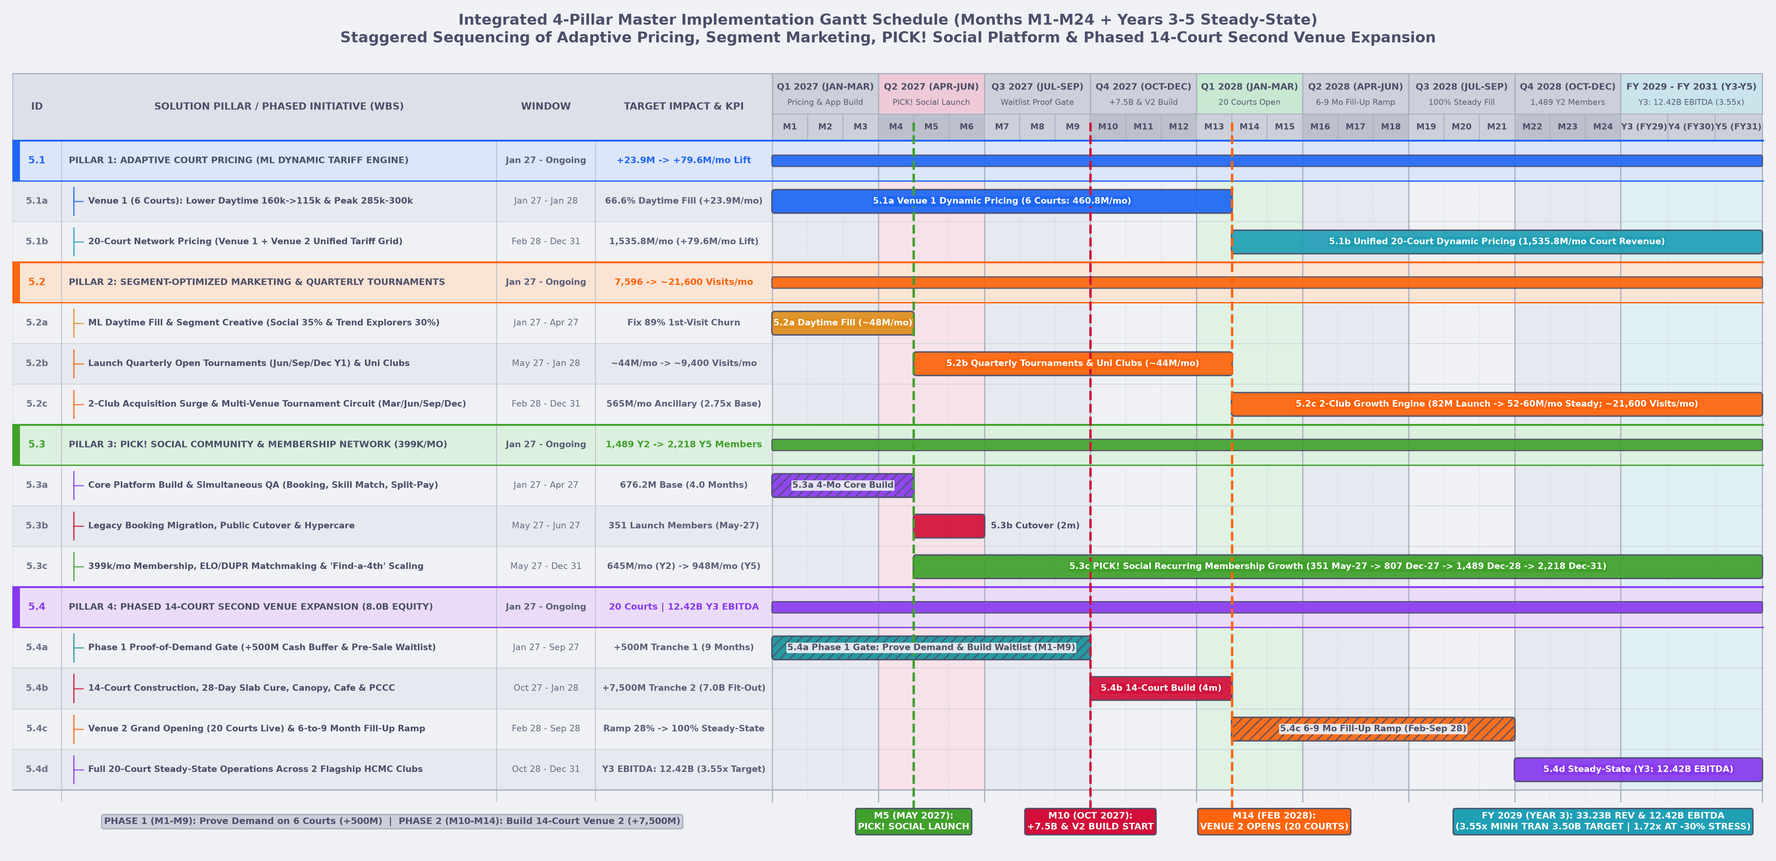
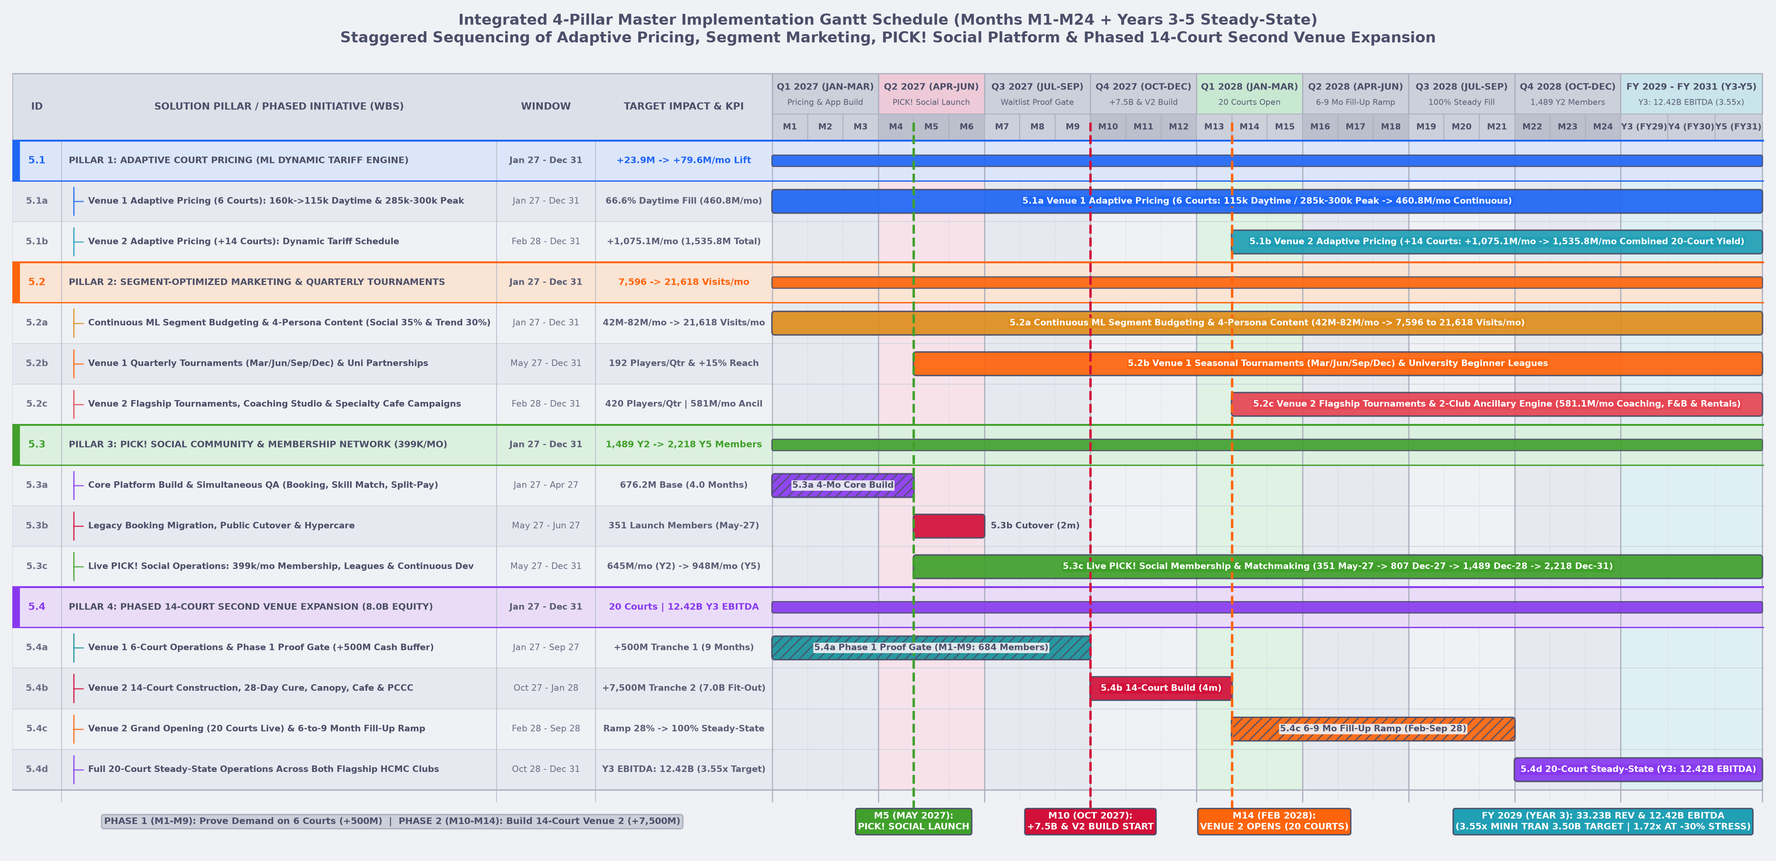
Refine 00 master Gantt continuous solution bars and clarify Case Page 3 partner-court league COGS

diff --git a/FinancialModel/src/visualizer.py b/FinancialModel/src/visualizer.py
@@ -1688,7 +1688,7 @@ def plot_executive_solution_master_roadmap(
             "type": "pillar",
             "id": "5.1",
             "name": "PILLAR 1: ADAPTIVE COURT PRICING (ML DYNAMIC TARIFF ENGINE)",
-            "window": "Jan 27 - Ongoing",
+            "window": "Jan 27 - Dec 31",
             "metric": "+23.9M -> +79.6M/mo Lift",
             "start": 0.0,
             "end": 28.0,
@@ -1698,34 +1698,34 @@ def plot_executive_solution_master_roadmap(
         {
             "type": "task",
             "id": "5.1a",
-            "name": "Venue 1 (6 Courts): Lower Daytime 160k->115k & Peak 285k-300k",
-            "window": "Jan 27 - Jan 28",
-            "metric": "66.6% Daytime Fill (+23.9M/mo)",
+            "name": "Venue 1 Adaptive Pricing (6 Courts): 160k->115k Daytime & 285k-300k Peak",
+            "window": "Jan 27 - Dec 31",
+            "metric": "66.6% Daytime Fill (460.8M/mo)",
             "start": 0.0,
-            "end": 13.0,
+            "end": 28.0,
             "color": "#89b4fa",
             "hatch": False,
-            "bar_text": "5.1a Venue 1 Dynamic Pricing (6 Courts: 460.8M/mo)",
+            "bar_text": "5.1a Venue 1 Adaptive Pricing (6 Courts: 115k Daytime / 285k-300k Peak -> 460.8M/mo Continuous)",
         },
         {
             "type": "task",
             "id": "5.1b",
-            "name": "20-Court Network Pricing (Venue 1 + Venue 2 Unified Tariff Grid)",
+            "name": "Venue 2 Adaptive Pricing (+14 Courts): Dynamic Tariff Schedule",
             "window": "Feb 28 - Dec 31",
-            "metric": "1,535.8M/mo (+79.6M/mo Lift)",
+            "metric": "+1,075.1M/mo (1,535.8M Total)",
             "start": 13.0,
             "end": 28.0,
             "color": "#74c7ec",
             "hatch": False,
-            "bar_text": "5.1b Unified 20-Court Dynamic Pricing (1,535.8M/mo Court Revenue)",
+            "bar_text": "5.1b Venue 2 Adaptive Pricing (+14 Courts: +1,075.1M/mo -> 1,535.8M/mo Combined 20-Court Yield)",
         },
         # Pillar 2: 5.2 Segment-Optimized Marketing
         {
             "type": "pillar",
             "id": "5.2",
             "name": "PILLAR 2: SEGMENT-OPTIMIZED MARKETING & QUARTERLY TOURNAMENTS",
-            "window": "Jan 27 - Ongoing",
-            "metric": "7,596 -> ~21,600 Visits/mo",
+            "window": "Jan 27 - Dec 31",
+            "metric": "7,596 -> 21,618 Visits/mo",
             "start": 0.0,
             "end": 28.0,
             "color": "#fab387",
@@ -1734,45 +1734,45 @@ def plot_executive_solution_master_roadmap(
         {
             "type": "task",
             "id": "5.2a",
-            "name": "ML Daytime Fill & Segment Creative (Social 35% & Trend Explorers 30%)",
-            "window": "Jan 27 - Apr 27",
-            "metric": "Fix 89% 1st-Visit Churn",
+            "name": "Continuous ML Segment Budgeting & 4-Persona Content (Social 35% & Trend 30%)",
+            "window": "Jan 27 - Dec 31",
+            "metric": "42M-82M/mo -> 21,618 Visits/mo",
             "start": 0.0,
-            "end": 4.0,
+            "end": 28.0,
             "color": "#f9e2af",
             "hatch": False,
-            "bar_text": "5.2a Daytime Fill (~48M/mo)",
+            "bar_text": "5.2a Continuous ML Segment Budgeting & 4-Persona Content (42M-82M/mo -> 7,596 to 21,618 Visits/mo)",
         },
         {
             "type": "task",
             "id": "5.2b",
-            "name": "Launch Quarterly Open Tournaments (Jun/Sep/Dec Y1) & Uni Clubs",
-            "window": "May 27 - Jan 28",
-            "metric": "~44M/mo -> ~9,400 Visits/mo",
+            "name": "Venue 1 Quarterly Tournaments (Mar/Jun/Sep/Dec) & Uni Partnerships",
+            "window": "May 27 - Dec 31",
+            "metric": "192 Players/Qtr & +15% Reach",
             "start": 4.0,
-            "end": 13.0,
+            "end": 28.0,
             "color": "#fab387",
             "hatch": False,
-            "bar_text": "5.2b Quarterly Tournaments & Uni Clubs (~44M/mo)",
+            "bar_text": "5.2b Venue 1 Seasonal Tournaments (Mar/Jun/Sep/Dec) & University Beginner Leagues",
         },
         {
             "type": "task",
             "id": "5.2c",
-            "name": "2-Club Acquisition Surge & Multi-Venue Tournament Circuit (Mar/Jun/Sep/Dec)",
+            "name": "Venue 2 Flagship Tournaments, Coaching Studio & Specialty Cafe Campaigns",
             "window": "Feb 28 - Dec 31",
-            "metric": "565M/mo Ancillary (2.75x Base)",
+            "metric": "420 Players/Qtr | 581M/mo Ancil",
             "start": 13.0,
             "end": 28.0,
-            "color": "#fab387",
+            "color": "#eba0ac",
             "hatch": False,
-            "bar_text": "5.2c 2-Club Growth Engine (82M Launch -> 52-60M/mo Steady; ~21,600 Visits/mo)",
+            "bar_text": "5.2c Venue 2 Flagship Tournaments & 2-Club Ancillary Engine (581.1M/mo Coaching, F&B & Rentals)",
         },
         # Pillar 3: 5.3 PICK! Social Community & Membership Network
         {
             "type": "pillar",
             "id": "5.3",
             "name": "PILLAR 3: PICK! SOCIAL COMMUNITY & MEMBERSHIP NETWORK (399K/MO)",
-            "window": "Jan 27 - Ongoing",
+            "window": "Jan 27 - Dec 31",
             "metric": "1,489 Y2 -> 2,218 Y5 Members",
             "start": 0.0,
             "end": 28.0,
@@ -1806,21 +1806,21 @@ def plot_executive_solution_master_roadmap(
         {
             "type": "task",
             "id": "5.3c",
-            "name": "399k/mo Membership, ELO/DUPR Matchmaking & 'Find-a-4th' Scaling",
+            "name": "Live PICK! Social Operations: 399k/mo Membership, Leagues & Continuous Dev",
             "window": "May 27 - Dec 31",
             "metric": "645M/mo (Y2) -> 948M/mo (Y5)",
             "start": 4.0,
             "end": 28.0,
             "color": "#a6e3a1",
             "hatch": False,
-            "bar_text": "5.3c PICK! Social Recurring Membership Growth (351 May-27 -> 807 Dec-27 -> 1,489 Dec-28 -> 2,218 Dec-31)",
+            "bar_text": "5.3c Live PICK! Social Membership & Matchmaking (351 May-27 -> 807 Dec-27 -> 1,489 Dec-28 -> 2,218 Dec-31)",
         },
         # Pillar 4: 5.4 Phased 14-Court Second Venue Expansion
         {
             "type": "pillar",
             "id": "5.4",
             "name": "PILLAR 4: PHASED 14-COURT SECOND VENUE EXPANSION (8.0B EQUITY)",
-            "window": "Jan 27 - Ongoing",
+            "window": "Jan 27 - Dec 31",
             "metric": "20 Courts | 12.42B Y3 EBITDA",
             "start": 0.0,
             "end": 28.0,
@@ -1830,19 +1830,19 @@ def plot_executive_solution_master_roadmap(
         {
             "type": "task",
             "id": "5.4a",
-            "name": "Phase 1 Proof-of-Demand Gate (+500M Cash Buffer & Pre-Sale Waitlist)",
+            "name": "Venue 1 6-Court Operations & Phase 1 Proof Gate (+500M Cash Buffer)",
             "window": "Jan 27 - Sep 27",
             "metric": "+500M Tranche 1 (9 Months)",
             "start": 0.0,
             "end": 9.0,
             "color": "#94e2d5",
             "hatch": True,
-            "bar_text": "5.4a Phase 1 Gate: Prove Demand & Build Waitlist (M1-M9)",
+            "bar_text": "5.4a Phase 1 Proof Gate (M1-M9: 684 Members)",
         },
         {
             "type": "task",
             "id": "5.4b",
-            "name": "14-Court Construction, 28-Day Slab Cure, Canopy, Cafe & PCCC",
+            "name": "Venue 2 14-Court Construction, 28-Day Cure, Canopy, Cafe & PCCC",
             "window": "Oct 27 - Jan 28",
             "metric": "+7,500M Tranche 2 (7.0B Fit-Out)",
             "start": 9.0,
@@ -1866,14 +1866,14 @@ def plot_executive_solution_master_roadmap(
         {
             "type": "task",
             "id": "5.4d",
-            "name": "Full 20-Court Steady-State Operations Across 2 Flagship HCMC Clubs",
+            "name": "Full 20-Court Steady-State Operations Across Both Flagship HCMC Clubs",
             "window": "Oct 28 - Dec 31",
             "metric": "Y3 EBITDA: 12.42B (3.55x Target)",
             "start": 21.0,
             "end": 28.0,
             "color": "#cba6f7",
             "hatch": False,
-            "bar_text": "5.4d Steady-State (Y3: 12.42B EBITDA)",
+            "bar_text": "5.4d 20-Court Steady-State (Y3: 12.42B EBITDA)",
         },
     ]
 

diff --git a/README.md b/README.md
@@ -55,7 +55,7 @@ Vietnam has rapidly transitioned from a viral pickleball spark in 2024 into Asia
     3. **Role of Competitive Players (`20%`) & Families (`15%`)**: Competitive Players already visit `4.5` times/month at the lowest marketing cost (`1,543 VND/visit`) and anchor peak evening courts and seasonal tournaments, while Families (`38,580 VND/visit` ancillary spend, led by `25,150 VND/visit` on coaching) anchor weekend morning and afternoon coaching clinics.
 - **Derived Mutual Demand Across All 4 Personas**:
   1. **Frictionless 4-Player Skill Matching & Open-Play Liquidity** (*All 4 Segments*): Eliminating manual group coordination, last-minute 4th-player dropouts, and intimidating skill mismatches.
-  2. **Accessible Weekday Daytime Pricing & Peak Capacity Relief** (*Trend Explorers, Social Players, Competitive Players*): Student-friendly `06:00-17:00` weekday rates (`115,000 VND/hr`) plus expanded peak court supply (`+14` courts at Venue 2 + partner courts).
+  2. **Accessible Weekday Daytime Pricing & Peak Capacity Relief** (*Trend Explorers, Social Players, Competitive Players*): Student-friendly `06:00-17:00` weekday rates (`115,000 VND/hr`), hosted `PICK! Social` member leagues/events (at PICK! and partner courts per **Case Page 3**), and expanded peak court supply (`+14` courts at Venue 2).
   3. **Structured Beginner-to-Competitive Progression** (*Trend Explorers, Families, Competitive Players*): Beginner clinics and guided mixers for first-timers and kids, paired with ranked leagues and quarterly tournaments for advanced players.
   4. **Welcoming Social 'Third-Place' Clubhouse & Member Perks** (*All 4 Segments*): A vibrant specialty cafe lounge, shaded family seating, and recurring membership privileges that reward repeat play.
 
@@ -147,11 +147,11 @@ Combining our market position, customer personas, and SWOT analysis exposes **fo
 - **What It Is & Problem Solved**: A recurring **`399,000 VND/month`** membership and digital matchmaking ecosystem (**Case Page 3 & Exhibit 3**) that directly solves **Problem 3 (`Zero Competitive Moat & High Susceptibility to Demand Shocks`)** by converting PICK!'s `1,150` free, zero-switching-cost registered accounts and `42,000+` followers into a sticky, recurring subscriber network - developed across **Months 1-6 (`Jan-Jun 2027`)** and launching live in **Month 5 (`May 2027`)**.
 - **How It Works**:
   - **Automated 4-Player Skill Matching & Group Coordination**: Eliminates the #1 customer friction across all four segments (manual group coordination, last-minute 4th-player dropouts, and skill mismatches) by pairing solo players, beginners, and 3-person crews into balanced 4-player games by DUPR/skill tier, alongside one-tap group bill splitting and priority 7-day peak court booking.
-  - **Partner-Court Overflow Access (`200,000 VND/hr` Wholesale)**: Active subscribers can book overflow games across vetted HCMC partner courts (where PICK! pays **`200,000 VND/court-hour`** wholesale per **Case Exhibit 3**), relieving Venue 1's `95%` evening capacity bottleneck ahead of Venue 2's opening and turning nearby clubs from pure price competitors into network supply.
+  - **Hosted Member Leagues, Organised Games & Partner-Court Events (`200,000 VND/court-hour` per Case Page 3)**: Per **Case Page 3 (`Path C`)**, `PICK! Social` runs weekly organised games, beginner leagues, school/university partnerships, and community events across PICK! and partner courts - budgeting **`135,000 VND/member/month`** in direct COGS to cover **`200,000 VND/court-hour`** partner-court event hire, league hosts/referees, and event balls while Venue 1 has only `6` courts, and then bringing `18%` more hosted league play in-house once Venue 2's `14` courts open in `Feb 2028`.
   - **Quarterly Seasonal Tournaments (`Mar, Jun, Sep, Dec` starting `Month 6 / Jun 2027`)**: Flagship seasonal brackets (`192` players in the 6-court phase; `420` players in the 20-court phase) offer **free entry (`0 VND`) for active `PICK! Social` subscribers** and **`350,000 VND/player`** entry for non-members. Each tournament converts **`22.0%`** of non-member entrants into paying `399,000 VND/month` subscribers, reduces monthly subscriber churn by **`20%`** ($0.80\times$ multiplier), boosts monthly social follower acquisition by **`+15%`**, and drives **`+85,000 VND/participant`** in incremental tournament-day F&B, equipment, and coaching spend.
 - **Why It Is Robust & Reliable (Assumptions & Validation)**:
   - **Bottom-Up 24-Week Engineering WBS (`~987.70M VND` Expected Build Cost vs. `1,000M VND` Case Estimate)**: Rather than treating the Case's `1,000M VND` development figure as a black box, [`PickSocialProjectTimeline/`](PickSocialProjectTimeline) decomposes the build into a `6`-stage, `24`-week Work Breakdown Structure (`21` tasks across `Jan-Jun 2027`: `4`-month core build `S1-S4` of `676.15M VND` Base / `809.48M VND` Buffered completed by `Week 16 / Apr 25, 2027`, followed by `4` weeks of legacy migration & public cutover in `May 2027` and `4` weeks of continuous hypercare & ML calibration in `Jun 2027`) - totaling **`911.18M VND` in committed engineering labor & staging cloud** (`139.93M-165.97M VND/month` leveled via bi-weekly sprints and a `22%` Stage 3 milestone acceptance holdback) plus a **`177.46M VND` risk contingency reserve** (`1,088.64M VND` max buffered; Monte Carlo expected drawdown = **`987.70M VND`**).
-  - **Smooth Markov Cohort Evolution & Full OpEx/COGS Accounting**: Rather than assuming an overnight jump to `1,000+` members, active paying subscribers $S_t$ evolve month-by-month via a stochastic Markov state-transition equation ([`configs/customers.toml`](configs/customers.toml)) across `300` Monte Carlo trajectories: seeding at **`351` initial converts in Month 5 (`May 2027`, `~30.5%` of the `1,150` existing registered accounts)**, adding monthly organic conversions ($\mu = 4.20\% \pm 0.45\%$ of active non-member customers) plus quarterly tournament conversions ($\mu = 22.0\% \pm 3.0\%$), and deducting monthly subscriber churn ($\mu = 4.20\% \pm 0.55\%$). Every ongoing cost is fully expensed ([`configs/opex.toml`](configs/opex.toml), [`configs/cogs.toml`](configs/cogs.toml)): **`16.50M` $\to$ `26.50M VND/month`** in cloud/DB, SMS OTP/push notifications, university beginner league ops, and engineering maintenance (`Month 5+`), **`200,000 VND/court-hour`** partner-court wholesale COGS, and **`45.00M` / `85.00M VND/quarter`** tournament organization COGS.
+  - **Smooth Markov Cohort Evolution & Full OpEx/COGS Accounting**: Rather than assuming an overnight jump to `1,000+` members, active paying subscribers $S_t$ evolve month-by-month via a stochastic Markov state-transition equation ([`configs/customers.toml`](configs/customers.toml)) across `300` Monte Carlo trajectories: seeding at **`351` initial converts in Month 5 (`May 2027`, `~30.5%` of the `1,150` existing registered accounts)**, adding monthly organic conversions ($\mu = 4.20\% \pm 0.45\%$ of active non-member customers) plus quarterly tournament conversions ($\mu = 22.0\% \pm 3.0\%$), and deducting monthly subscriber churn ($\mu = 4.20\% \pm 0.55\%$). Every ongoing cost is fully expensed ([`configs/opex.toml`](configs/opex.toml), [`configs/cogs.toml`](configs/cogs.toml)): **`16.50M` $\to$ `26.50M VND/month`** in cloud/DB, SMS OTP/push notifications, university beginner league ops, and engineering maintenance (`Month 5+`), **`135,000 VND/member/month`** in partner-court (`@ 200,000 VND/court-hour` per **Case Page 3**) and member-league delivery COGS, and **`45.00M` / `85.00M VND/quarter`** tournament organization COGS.
 - **Results**:
   - **Active Paying Subscriber Trajectory**: Grows from **`351` members at launch (`May 2027`)** $\to$ **`807` by End of Year 1 (`Dec 2027`)** $\to$ **`1,489` by End of Year 2 (`Dec 2028`)** $\to$ **`1,827` (`90% CI: [1,692, 1,961]`) by End of Year 3 (`Dec 2029`)** $\to$ **`2,218` by Year 5 (`Dec 2031`)**.
   - **Recurring Revenue Moat**: Generates **`786.77M VND/month`** (`~9.0B VND/year`) in subscription and seasonal tournament revenue by End of Year 3 (**`502.45M VND/month` net margin contribution** after deducting `284.32M VND/month` in partner-court and event COGS) and **`36,220.08M VND` (`25.86%` of total 5-year revenue)** across 60 months - creating a durable, high-switching-cost community moat before and after Venue 2 opens.
@@ -197,8 +197,8 @@ Standalone local competitors can easily copy a court surface, a cafe menu, or a 
    - In a 4-player sport, the hardest problem for any player is finding three equals at the right time. As `PICK! Social` scales to **`1,827` paying subscribers (`399,000 VND/month`)** and **`92,170` followers** by Year 3, PICK! owns Ho Chi Minh City's deepest pool of skill-verified players, university beginner leagues, and quarterly seasonal tournaments (`Mar, Jun, Sep, Dec`). Defecting to a cheaper bare-court rival means losing one's DUPR/skill lobby, priority 7-day booking window, and free `350,000 VND` quarterly tournament entry.
 2. **Closed-Loop Full-Day Court Yield (`Adaptive Pricing` $\times$ `Segment Marketing`)**:
    - Traditional HCMC clubs treat `06:00-17:00` weekday hours as dead time (`40%` utilization) while overspending on generic ads when their evening courts are already full. By pairing **`115,000 VND/hr` off-peak weekday pricing** with **segment-specific `Trend Explorer` and student acquisition**, PICK! lifts weekday daytime utilization to **`66.4%` (`+26.4 pp` curve; `66.6%` simulated mean)** - generating **`+79.64M VND/month` (`+955.7M VND/year` across `20` courts; `+23.89M VND/month` on `6` courts)** in near-`100%` marginal profit from fixed lease and staff capacity that is already paid for.
-3. **De-Risked, Demand-First Venue Scaling (Turning Rivals Into Supply, Then Expanding With Waiting Demand)**:
-   - Rather than signing a `330M VND/month` lease on Day 1 and praying for walk-ins during a `6-to-9 month` ramp, PICK! first uses **partner courts (`200,000 VND/hr` wholesale)** to absorb Venue 1 evening overflow and build **`684` paying members and `+2,177.66M VND` in cash reserves by `Sep 2027` (`Month 9` expansion gate)** - growing to **`807` members (`4,123.74M VND` cash) by `Dec 2027`** and **`847` members (`2,410.96M VND` cash) by `Jan 2028`** right before Venue 2 opens in `Feb 2028`. When the `14` new courts open, PICK! migrates an already-waiting community onto its own courts.
+3. **De-Risked, Demand-First Venue Scaling (Building a Proven Member Community Before Opening 14 New Courts)**:
+   - Rather than signing a `330M VND/month` lease on Day 1 and praying for walk-ins during a `6-to-9 month` ramp, PICK! first launches Adaptive Pricing, Segment Marketing, and `PICK! Social` (hosting organised games and beginner leagues across Venue 1 and partner courts `@ 200,000 VND/hr` per **Case Page 3**) to build **`684` paying members and `+2,177.66M VND` in cash reserves by `Sep 2027` (`Month 9` expansion gate)** - growing to **`807` members (`4,123.74M VND` cash) by `Dec 2027`** and **`847` members (`2,410.96M VND` cash) by `Jan 2028`** right before Venue 2 opens in `Feb 2028`. When the `14` new courts open, PICK! migrates an already-active member community onto its own courts (reducing per-member external partner-court event COGS by `18%`).
 4. **Disciplined Strategic Trade-Off - Why We Explicitly Reject Path B (`Own-Brand Paddles & Apparel`)**:
    - Within Minh Tran's **`8,000M VND` investment cap**, pursuing **Path B** (**Case Exhibit 5**: `2,000M VND` product development & first inventory + `2,000M VND` brand marketing + `1,000M VND` e-commerce & logistics + `1,000M VND` launch events + `2,000M VND` reserve = **`8,000M VND`**) would consume `100%` of the investor budget while betting on PICK!'s weakest capability: PICK! has **zero hardware manufacturing experience**, **no retail distribution network**, and only **`18%` surveyed customer purchase intent** (**Case Page 3 & Exhibit 4**) in a market dominated by global OEMs (JOOLA, Selkirk, Sypik). Concentrating `100%` of capital on **community-locked courts, coaching (`47.8%` gross margin after `52.2%` coach payout), and specialty F&B (`60.0%` gross margin)** delivers an **`80.00%` blended 5-year gross margin** without inventory write-down risk.
 
@@ -237,7 +237,7 @@ To test our strategy against **Case Page 4's explicit robustness requirement** (
 
 1. **Permanent `-30%` Lower-Demand Shock (`Day 1 to Month 60`) & Operational Contingency Response**:
    - **Shock Mechanics**: We apply an immediate **`-30.0%` haircut across every demand driver** from `Jan 2027` through `Dec 2031`: court booking volume across both Venue 1 (`6` courts) and Venue 2 (`14` courts), monthly customer visits, coaching/F&B/equipment conversion, and `PICK! Social` subscriber acquisition, while **holding all long-term contractual commitments 100% rigid** - including fixed venue leases (`150.00M VND/mo` Venue 1 + `330.00M VND/mo` Venue 2 from `Month 10` = `480.00M VND/mo`), the `987.70M VND` `PICK! Social` platform build, the `7,000.00M VND` Venue 2 CapEx, and statutory `D&A` (`122.00M VND/mo`).
-   - **What We Change Operational-Wise Under `-30%` Demand ([`FinancialModel/src/model.py`](FinancialModel/src/model.py))**: Rather than passively burning full overhead when foot traffic is `-30%` lower, PICK! executes two pre-committed operational adjustments: (i) **flexing shift-based club staffing (`130M + 280M` base), off-peak court lighting/AC utilities (`40M + 95M` base), routine upkeep (`20M + 48M` base), and discretionary performance marketing down by `-20.0%` (`0.80x` multiplier)** by consolidating low-occupancy daytime shifts and pausing non-core ad spend, and (ii) **scaling court consumables and quarterly tournament staging budgets by `-15.0%` (`0.85x` multiplier)** while keeping core `PICK! Social` matchmaking and partner-court overflow active.
+   - **What We Change Operational-Wise Under `-30%` Demand ([`FinancialModel/src/model.py`](FinancialModel/src/model.py))**: Rather than passively burning full overhead when foot traffic is `-30%` lower, PICK! executes two pre-committed operational adjustments: (i) **flexing shift-based club staffing (`130M + 280M` base), off-peak court lighting/AC utilities (`40M + 95M` base), routine upkeep (`20M + 48M` base), and discretionary performance marketing down by `-20.0%` (`0.80x` multiplier)** by consolidating low-occupancy daytime shifts and pausing non-core ad spend, and (ii) **scaling court consumables and quarterly tournament staging budgets by `-15.0%` (`0.85x` multiplier)** while keeping core `PICK! Social` matchmaking and hosted member leagues active.
    - **Why PICK! Survives & Beats the Target Under `-30%` Stress**:
      - **Zero Negative Cash Months Across All 60 Months**: In `FY 2027`, the `-30%` revenue shock combined with the `987.70M VND` `PICK! Social` build and `990.00M VND` (`Oct-Dec 2027`) pre-opening Venue 2 rent produces a temporary Year 1 EBITDA of **`-662.33M VND`**. Because our **2-tranche equity structure** injects **`+500.00M VND` (`Tranche 1`) in `Jan 2027`** on top of the **`500.00M VND` starting cash reserve** (`1,000.00M VND` pre-operation liquidity) and holds **`+1,000.00M VND`** in total investor cash reserves during the `Oct 2027 - Jan 2028` Venue 2 build, **Year 1 Ending Cash remains strongly positive at `+2,250.52M VND`**, and the lowest monthly cash balance across the entire 60-month stress horizon never drops below **`+203.66M VND` (`Apr 2028 / Month 16`, immediately after the final `1,750M VND` construction installment and April CIT settlement)** - compared to a **`1,007.04M VND` (`Mar 2027`)** minimum cash floor under normal conditions.
      - **Year 3 Stress EBITDA Still Clears Minh Tran's `3.5B VND` Hurdle by `1.72x`**: By `FY 2029 (Year 3)`, even at permanently `-30%` depressed demand, the 20-court network and recurring `PICK! Social` subscription base generate **`+6,008.76M VND/year` (`6.01B VND`) in Operating Profit (`EBITDA`)** - **exceeding Investor Minh Tran's `3,500M VND` target by `+2,508.76M VND/year` (`1.72x` target)** and accumulating **`21,027.34M VND` in 5-year cumulative EBITDA (`2.44x` the normal Case Baseline)** and **`19,940.79M VND` in Month 60 Ending Cash**.
